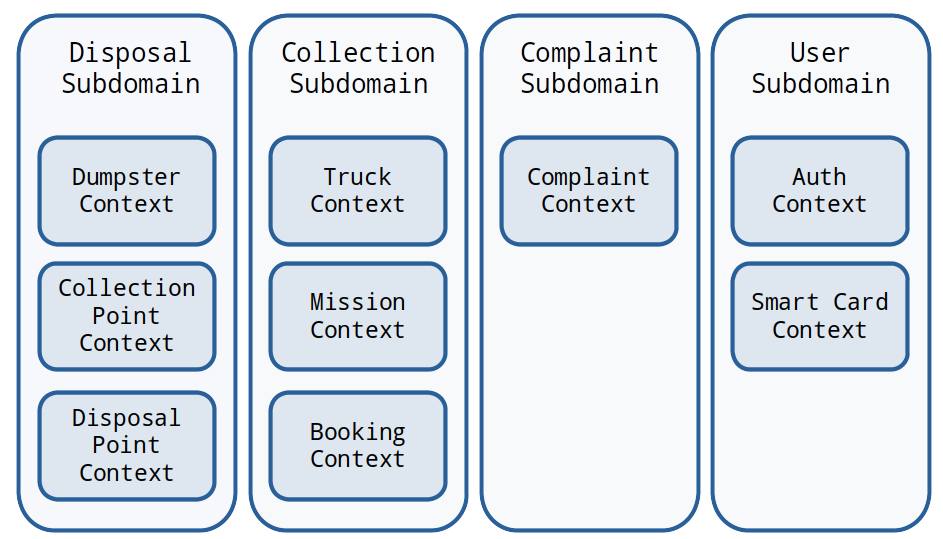
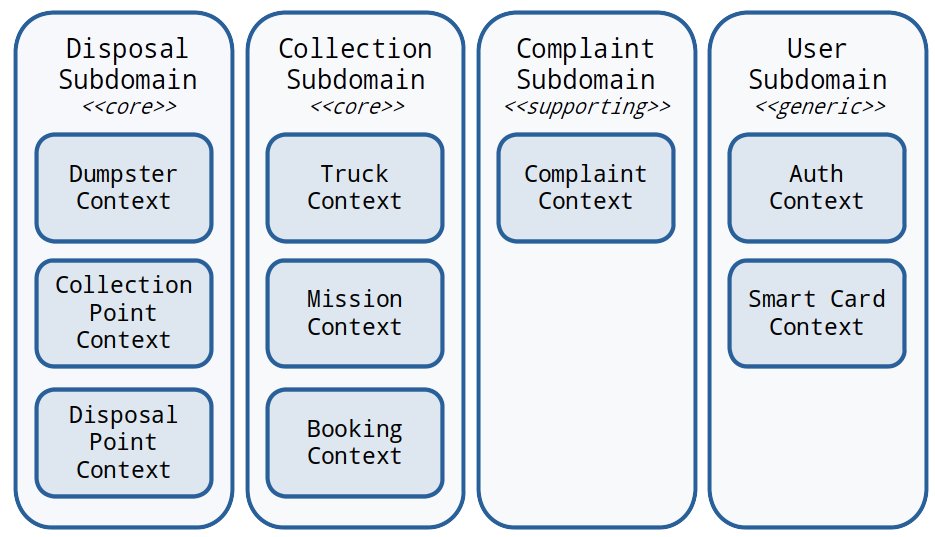
docs: add architectural design, domain design and devops

Changed region(s): [[0.0, 0.0, 1.0, 1.0]]

diff --git a/doc/sections/05-devops.tex b/doc/sections/05-devops.tex
@@ -1,0 +1,51 @@
+\section{Devops}
+\frame{\tableofcontents[currentsection]}
+
+%-------------------------------------------------
+\subsection{DVCS Strategy}
+\begin{frame}
+    \frametitle{DVCS Strategy}
+    Per gestire i repository sono state effettuate le seguenti scelte:
+    \begin{itemize}
+        \item Definizione di una \textbf{GitHub Organization} per contenere tutti i progetti.
+        \item Utilizzo di \textbf{Git Flow Workflow} per avere una linea di sviluppo chiara e ben definita.
+        \item Utilizzo dei \textbf{Conventional Commit} per poter generare in modo automatico i nuovi \textbf{tag} e le relative \textbf{release}
+        \item Configurazione di un \textbf{Commit Linter} per assicurare che i commit siano correttamente formattati
+    \end{itemize}
+\end{frame}
+%------------------------------------------------
+
+%-------------------------------------------------
+\subsection{Continuous Integration}
+\begin{frame}
+    \frametitle{Continuous Integration}
+    All'interno dei repository dell'organizzazione sono stati configurati dei workflow che, tramite delle GitHub Actions,
+    effettuano i seguenti controlli:
+    \begin{itemize}
+        \item \textbf{Code Quality Control}: tramite i plugin \texttt{ktlint} e \texttt{ESLint}.
+        \item \textbf{Testing}: utilizzando i plugin \texttt{kotest} e \texttt{mocha}.
+        \item \textbf{Reporting della coverage}: con i plugin \texttt{jacoco} e \texttt{istanbul}.
+    \end{itemize}
+
+    \bigskip
+
+    Inoltre è stato configurato il bot \texttt{renovate} all'interno dei repository per effettuare \textbf{Automatic Dependency Update}.
+
+\end{frame}
+
+%------------------------------------------------
+
+%-------------------------------------------------
+\subsection{Continuous Delivery}
+\begin{frame}
+    \frametitle{Continuous Delivery}
+    Sono stati inoltre configurati dei workflow che consentono di effettuare:
+    \begin{itemize}
+        \item \textbf{Semantic Versioning and Releasing}: GitHub Action che consente di calcolare automaticamente il tag della release ed effettuarla tramite l'analisi dei messaggi di commit.
+        \item \textbf{Containerization}: L'applicazione viene costruita utilizzando un Dockerfile e pubblicata all'interno dei GitHub Packages.
+    \end{itemize}
+\end{frame}
+
+
+%------------------------------------------------
+

diff --git a/doc/sections/domain-design/03-domain-models.tex b/doc/sections/domain-design/03-domain-models.tex
@@ -1,0 +1,35 @@
+%-------------------------------------------------
+\begin{frame}
+    \frametitle{Domain Models}
+    Sono stati modellati gli elementi \textit{core} del dominio utilizzando i \textbf{Tactical Building Blocks},
+    definendo i principali \textbf{Aggregates}.
+
+    \bigskip
+
+    Gli aggregates modellati sono:
+    \begin{itemize}
+        \item \textbf{Dumpster Aggregate}
+        \item \textbf{Collection Point Aggregate}
+        \item \textbf{Truck Aggregate}
+        \item \textbf{Mission Aggregate}
+    \end{itemize}
+
+    \bigskip
+
+    All'interno di ciascuno di essi sono stati specificati: \textit{Entities}, \textit{Value Objects},
+    \textit{Domain Services} e \textit{Domain Events}.
+
+\end{frame}
+%------------------------------------------------
+
+%-------------------------------------------------
+\begin{frame}
+    \frametitle{Context Mapping}
+
+    \begin{figure}[H]
+        \centering
+        \includegraphics[width=\linewidth]{../img/disposal-domain-model}
+    \end{figure}
+
+\end{frame}
+%------------------------------------------------

diff --git a/doc/sections/domain-design/02-context-mapping.tex b/doc/sections/domain-design/02-context-mapping.tex
@@ -1,0 +1,27 @@
+%-------------------------------------------------
+\begin{frame}
+    \frametitle{Context Mapping}
+    Una volta individuati i \textbf{Subdomain} sono state analizzate le possibili relazioni che avvengono tra di essi.
+
+    \bigskip
+
+    In particolare, sono state individuate due tipologie di interazione:
+    \begin{itemize}
+        \item \textbf{Partnership}: dove i componenti si accordano sull'integrazione delle funzionalità
+        \item \textbf{Upstream - Downstream (Conformist)}: dove il downstream si adatta alla specifica api definita dall'upstream
+    \end{itemize}
+
+\end{frame}
+%------------------------------------------------
+
+%-------------------------------------------------
+\begin{frame}
+    \frametitle{Context Mapping}
+
+    \begin{figure}[H]
+        \centering
+        \includegraphics[width=\linewidth]{../img/context-mapping}
+    \end{figure}
+
+\end{frame}
+%------------------------------------------------

diff --git a/doc/sections/architectural-design/02-service-architecture.tex b/doc/sections/architectural-design/02-service-architecture.tex
@@ -1,0 +1,27 @@
+%-------------------------------------------------
+\begin{frame}
+    \frametitle{Architettura dei Microservizi}
+    Ciascun microservizio è stato implementato ispirandosi alla \textbf{Clean Architecture}.
+
+    \smallskip
+
+    \begin{columns}
+        \begin{column}{0.6\textwidth}
+            In particolare, sono state definiti i seguenti layer:
+            \begin{itemize}
+                \item \textbf{Entities}
+                \item \textbf{Use Cases}
+                \item \textbf{Adapters}
+                \item \textbf{Drivers}
+            \end{itemize}
+        \end{column}
+        \begin{column}{0.4\textwidth}
+            \begin{center}
+                \includegraphics[width=\textwidth]{../img/clean}
+            \end{center}
+        \end{column}
+    \end{columns}
+
+
+\end{frame}
+%------------------------------------------------

diff --git a/doc/sections/architectural-design/01-architectural-map.tex b/doc/sections/architectural-design/01-architectural-map.tex
@@ -1,0 +1,20 @@
+%-------------------------------------------------
+\begin{frame}
+    \frametitle{Architettura}
+    È stata definita una architettura ad alto livello del sistema, a partire dai \textbf{Subdomain} precedentemente
+    identificati.
+
+    \bigskip
+
+    Per ciascuno di essi, vengono individuati i \textit{microservizi} necessari per il funzionamento del sistema,
+    specificando anche le interazioni che avvengono tra essi.
+
+    \smallskip
+
+    \begin{figure}[H]
+        \centering
+        \includegraphics[width=0.8\linewidth]{../img/global-architectural-map}
+    \end{figure}
+
+\end{frame}
+%------------------------------------------------
